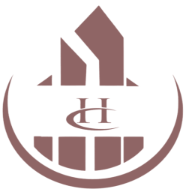
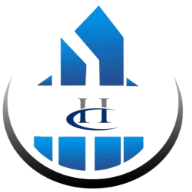
update home page

diff --git a/index.html b/index.html
@@ -16,9 +16,9 @@
     <link rel="icon" type="image/png" sizes="32x32" href="img/favicon-32x32.png">
     <link rel="icon" type="image/png" sizes="16x16" href="img/favicon-16x16.png">
 
-    <meta property="og:image" content="img/Hawaf/IMG-20230707-WA0029.jpg">
-    <meta property="og:image:width" content="1200">
-    <meta property="og:image:height" content="630">
+    <meta property="og:image" content="https://hawafco.com/img/Hawaf/IMG-20230707-WA0040.jpg">
+    <meta property="og:image:width" content="960">
+    <meta property="og:image:height" content="540">
     <meta property="og:image:alt" content="شركة حواف المعمارية للمقاولات والتطوير العقاري">
 
     <!-- Google Web Fonts -->
@@ -49,7 +49,7 @@
     <!-- Spinner Start -->
     <div id="spinner" class="show bg-white position-fixed translate-middle w-100 vh-100 top-50 start-50 d-flex align-items-center justify-content-center">
         <div class="spinner-border position-relative text-primary" style="width: 6rem; height: 6rem;" role="status"></div>
-        <img class="position-absolute top-50 start-50 translate-middle" height="50" width="50" src="img/icons/icon-1.png" alt="Icon">
+        <img class="position-absolute top-50 start-50 translate-middle" height="50" width="50" src="img/hawafLogo.png" alt="Icon">
     </div>
     <!-- Spinner End -->
 
@@ -84,7 +84,7 @@
     <!-- Navbar Start -->
     <nav class="navbar navbar-expand-lg bg-white navbar-light sticky-top py-lg-0 px-lg-5 wow fadeIn" data-wow-delay="0.1s">
         <a href="index.html" class="navbar-brand ms-4 ms-lg-0">
-            <h1 class="text-primary m-0"><img class="me-3 " height="50" width="50" src="img/logo.png" alt="Icon">حواف</h1>
+            <h1 class="text-primary m-0"><img class="me-3 " height="50" width="50" src="img/hawafLogo.png" alt="Icon">حواف</h1>
         </a>
         <button type="button" class="navbar-toggler me-4" data-bs-toggle="collapse" data-bs-target="#navbarCollapse">
             <span class="navbar-toggler-icon"></span>
@@ -200,7 +200,7 @@
                             <h3>Working</h3>
                             <h3 class="mb-0">Experience</h3>
                         </div> -->
-                        <img src="img/logo.png" class="img-fluid" height="100" width="100" alt="">
+                        <img src="img/hawafLogo.png" class="img-fluid" height="100" width="100" alt="">
                     </div>
                     <a class="btn btn-primary py-3 px-5" href="#">اقرأ اكثر</a>
                 </div>
@@ -266,7 +266,7 @@
             <div class="row g-4">
                 <div class="col-lg-4 col-md-6 wow fadeInUp" data-wow-delay="0.1s">
                     <div class="service-item d-flex position-relative text-center h-100">
-                        <img class="bg-img" src="img/Hawaf/IMG-20230707-WA0045.jpg" alt="">
+                        <img class="bg-img" src="img/WhatsApp Image 2023-08-03 at 16.01.38.jpg" alt="">
                         <div class="service-text p-5">
                             <img class="mb-4" src="img/icons/icon-5.png" alt="Icon">
                             <h3 class="mb-3">اعمال جبسية</h3>
@@ -284,7 +284,7 @@
                             <img class="mb-4" src="img/icons/icon-6.png" alt="Icon">
                             <h3 class="mb-3">بناء وتعمير</h3>
                             <p class="mb-4">
-                                ن نقدم خدمات بناء وتعمير شاملة بما في ذلك التخطيط والتصميم والتنفيذ للمشاريع السكنية والتجارية.
+                                 نقدم خدمات بناء وتعمير شاملة بما في ذلك التخطيط والتصميم والتنفيذ للمشاريع السكنية والتجارية.
                             </p>
                             <a class="btn" href="#"><i class="fa fa-plus text-primary me-3"></i>اقرأ اكثر</a>
                         </div>
@@ -292,7 +292,7 @@
                 </div>
                 <div class="col-lg-4 col-md-6 wow fadeInUp" data-wow-delay="0.5s">
                     <div class="service-item d-flex position-relative text-center h-100">
-                        <img class="bg-img" src="img/Hawaf/IMG-20230704-WA0011.jpg" alt="">
+                        <img class="bg-img" src="img/WhatsApp Image 2023-08-02 at 00.44.33.jpg" alt="">
                         <div class="service-text p-5">
                             <img class="mb-4" src="img/icons/icon-7.png" alt="Icon">
                             <h3 class="mb-3">اعمال مصاعد</h3>
@@ -305,7 +305,7 @@
                 </div>
                 <div class="col-lg-4 col-md-6 wow fadeInUp" data-wow-delay="0.1s">
                     <div class="service-item d-flex position-relative text-center h-100">
-                        <img class="bg-img" src="img/Hawaf/IMG-20230704-WA0009.jpg" alt="">
+                        <img class="bg-img" src="img/WhatsApp Image 2023-08-02 at 00.44.32.jpg" alt="">
                         <div class="service-text p-5">
                             <img class="mb-4" src="img/icons/icon-8.png" alt="Icon">
                             <h3 class="mb-3">بيع وتأجير عقارات</h3>
@@ -700,7 +700,7 @@
                     <p class="mb-2"><i class="fa fa-map-marker-alt text-primary ms-3"></i>عدن - المنصورة - شارع التسعين - جوار فندق السيسي</p>
                     <p class="mb-2"><i class="fa fa-phone-alt text-primary ms-3"></i>772966652</p>
                     <p class="mb-2"><i class="fa fa-phone-alt text-primary ms-3"></i>772966653</p>
-                    <p class="mb-2"><i class="fa fa-envelope text-primary ms-3"></i>info@hawaf.com</p>
+                    <p class="mb-2"><i class="fa fa-envelope text-primary ms-3"></i>info@hawafco.com</p>
                     <div class="d-flex pt-2">
                         <a class="btn btn-square btn-outline-body ms-1" href="#"><i class="fab fa-twitter"></i></a>
                         <a class="btn btn-square btn-outline-body ms-1" href="#"><i class="fab fa-facebook-f"></i></a>

diff --git a/css/style.css b/css/style.css
@@ -1,6 +1,7 @@
 /********** Template CSS **********/
 :root {
-    --primary: #B78D65;
+    --primary: #1073bd;
+    /* --primary: #B78D65; */
     --light: #F8F8F8;
     --dark: #252525;
 }
@@ -62,7 +63,18 @@ h6,
     font-weight: 500;
     transition: .5s;
 }
-
+.btn-primary{
+    background-color: var(--primary);
+    border-color: rgb(123, 152, 215);
+}
+.text-primary{
+    color: var(--primary) !important;
+}
+.btn-primary:hover {
+    color: #000;
+    background-color: var(--primary);
+    border-color: #be9874;
+}
 .btn.btn-primary,
 .btn.btn-secondary {
     color: #FFFFFF;
